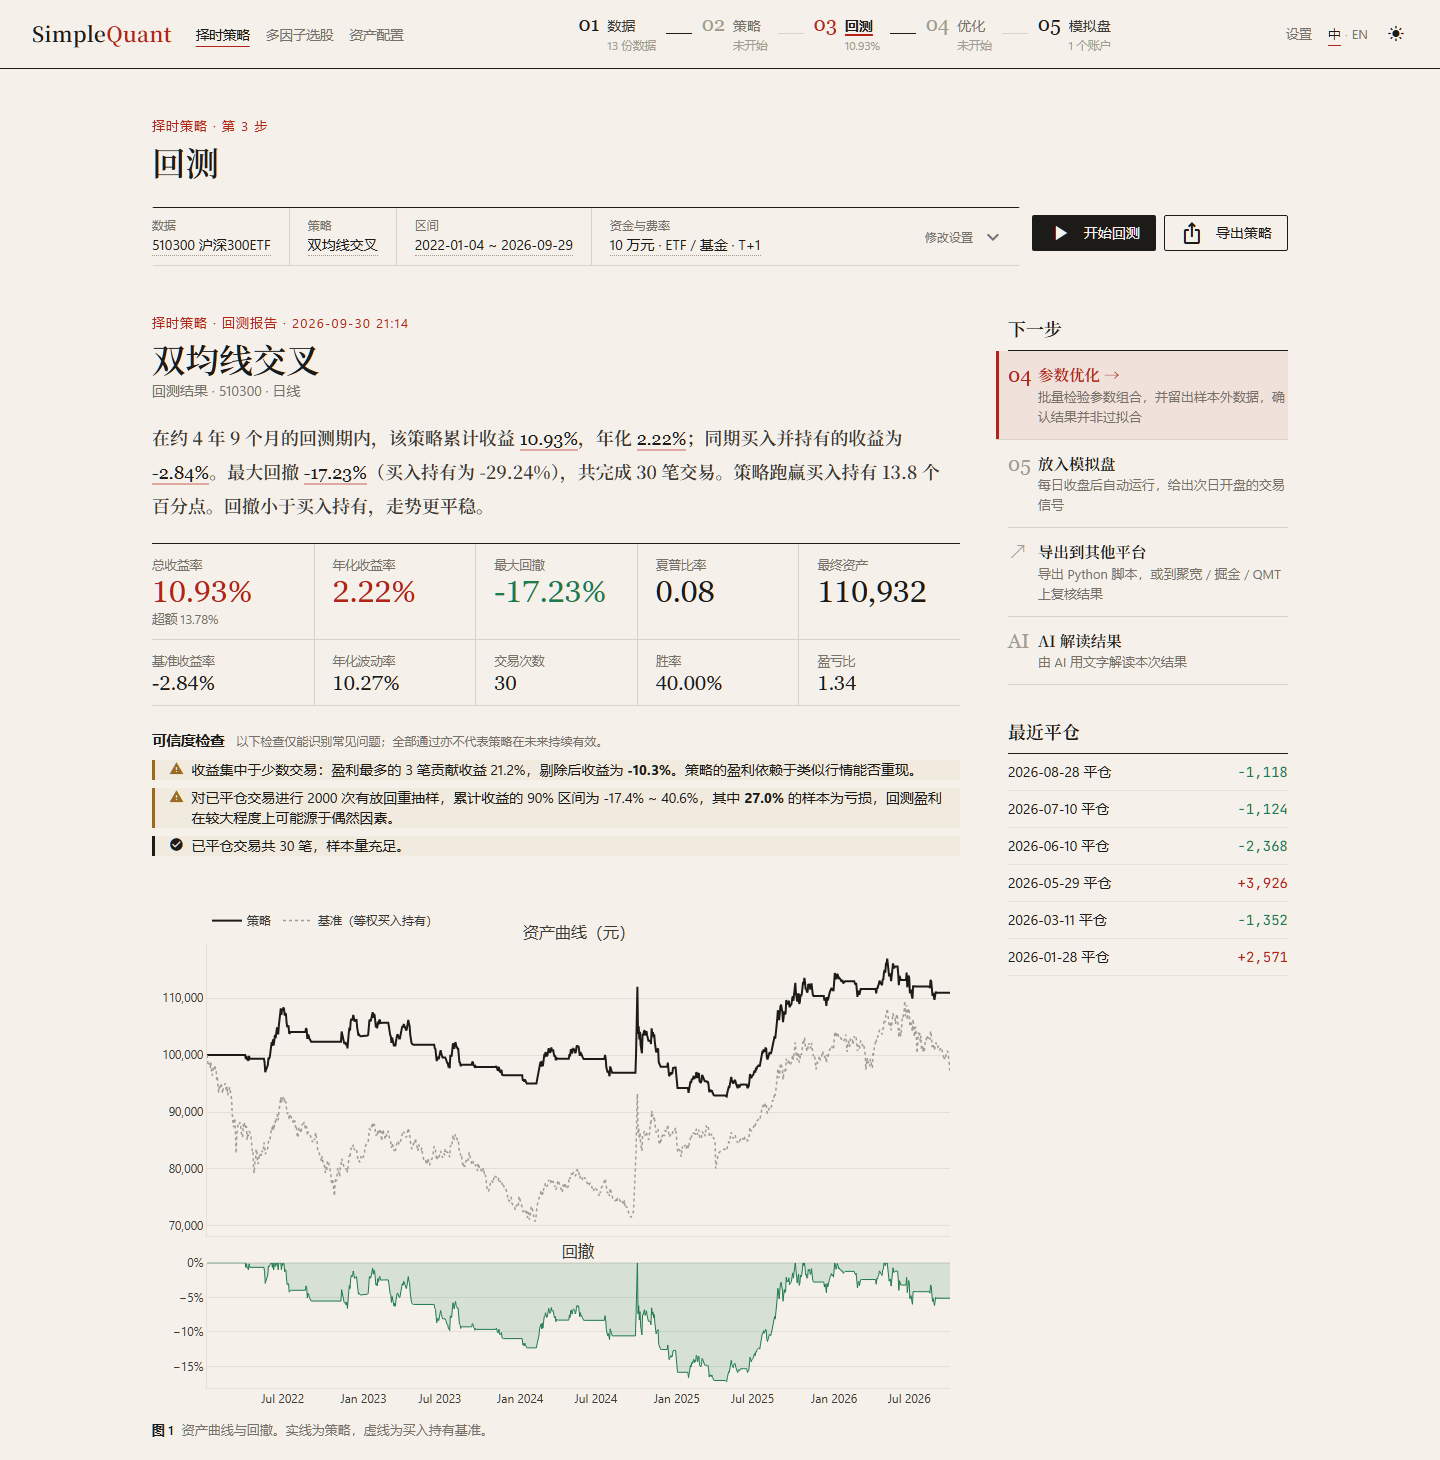
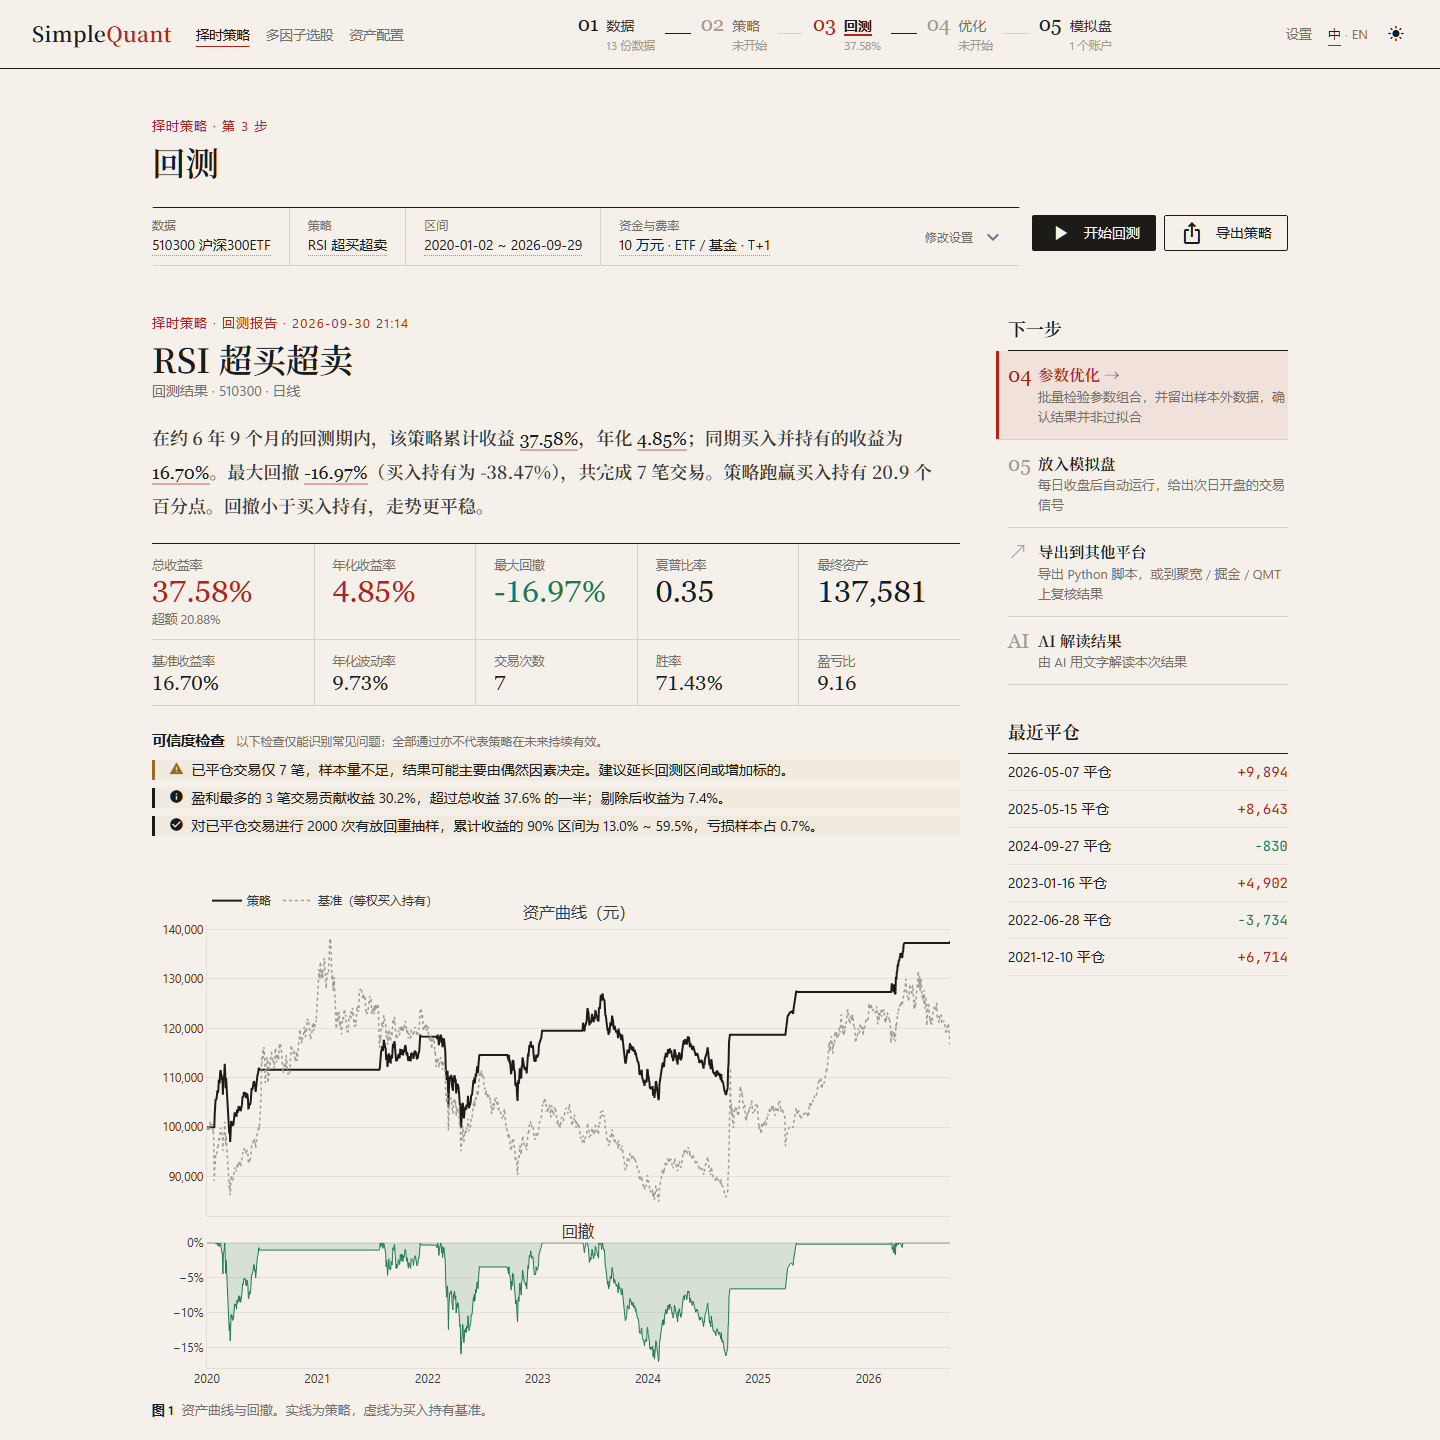
README 回测截图改为 RSI 超买超卖（2020-01-02 起，跑赢买入持有 20.9 个百分点）；首页截图同步

diff --git a/tools/readme_server.py b/tools/readme_server.py
@@ -1,7 +1,7 @@
 """
 README 截图用的界面服务：python tools/readme_server.py zh|en light|dark 端口 [cb|up]
 - 界面偏好、模拟账户都放在临时目录，不读写你自己的偏好、历史和模拟账户
-- 预先放入：一次双均线回测（回测页、首页「继续上次的工作」）、两条最近的报告、一个运行了一段时间的模拟账户、
+- 预先放入：一次 RSI 回测（回测页、首页「继续上次的工作」）、两条最近的报告、一个运行了一段时间的模拟账户、
   一次资产配置（风险测评 C3、默认候选）
 - 加 cb：选股页的股票池改为「可转债（全市场）」，使用可转债的默认因子与条件
 - 加 up：模拟账户改用 RSI 超买超卖（截至 2026-09-30 为盈利），并视为已设置每日自动运行（首页不显示提示）
@@ -42,23 +42,23 @@ ID = next(m.id for m in sorted(library.list_datasets(), key=lambda m: m.end, rev
           if m.symbol == "510300" and m.source == "akshare" and m.freq == "1d" and m.adjust)
 DF = library.load(ID)
 
-# ---- 回测：双均线（10 / 20 日） ----
-rng = (dt.date(2022, 1, 4), dt.date(2026, 9, 29))     # 区间内买入持有略亏，双均线跑赢基准
+# ---- 回测：RSI 超买超卖（默认参数） ----
+rng = (dt.date(2020, 1, 2), dt.date(2026, 9, 29))     # 区间内 RSI 跑赢买入持有
 prices = shared.slice_prices({"510300": DF}, rng)
-spec = {"kind": "template", "template": "sma_cross", "params": {"fast": 10, "slow": 20}}
+spec = {"kind": "template", "template": "rsi_reversion", "params": {}}
 cls, params = strategies.resolve(spec)
 broker = BrokerConfig(cash=100000, commission=0.00005, min_commission=0, stamp_duty=0, slippage=0.0005)
 res = run_backtest(prices, cls, params, broker, with_panels=True)
-name = "双均线交叉" if ZH else "SMA crossover"
-state.STATE["bt"] = dict(result=res, title=("模板：双均线" if ZH else "Template: SMA cross", ["510300"], "1d"),
+name = "RSI 超买超卖" if ZH else "RSI mean reversion"
+state.STATE["bt"] = dict(result=res, title=("模板：RSI 超买超卖" if ZH else "Template: RSI mean reversion", ["510300"], "1d"),
                          spec=spec, broker=broker, name=name, time="2026-09-30 21:14",
                          checks=check_backtest(res.metrics, res.trades))
 for key in ("bt", "opt"):
     state.STATE[f"{key}_ids"] = [ID]
     state.STATE[f"{key}_range"] = rng
-    state.STATE[f"{key}_strategy"] = "tpl:sma_cross"
+    state.STATE[f"{key}_strategy"] = "tpl:rsi_reversion"
 
-# ---- 模拟盘：从 2025-10 起运行的双均线账户 ----
+# ---- 模拟盘：从 2025-10 起运行的账户（默认双均线，加 up 为 RSI） ----
 cal = load_calendar(refresh_if_stale=False)
 if UP:
     acc_name, acc_spec = "沪深300ETF RSI" if ZH else "CSI 300 ETF · RSI", {"kind": "template", "template": "rsi_reversion",
@@ -114,7 +114,7 @@ def seed():
     history.add("sel", "沪深300 低估值 + 反转" if ZH else "CSI 300 value + reversal",
                 ("沪深300" if ZH else "CSI 300") + " · 2020-01-02 ~ 2026-09-28",
                 {"total_return": 0.216, "sharpe": 0.94}, data="沪深300" if ZH else "CSI 300", strategy="")
-    history.add("bt", name, "510300 · " + ("日线" if ZH else "Daily") + " · 2022-01-04 ~ 2026-09-29", res.metrics,
+    history.add("bt", name, "510300 · " + ("日线" if ZH else "Daily") + " · 2020-01-02 ~ 2026-09-29", res.metrics,
                 data="510300", strategy=name)
 
 
